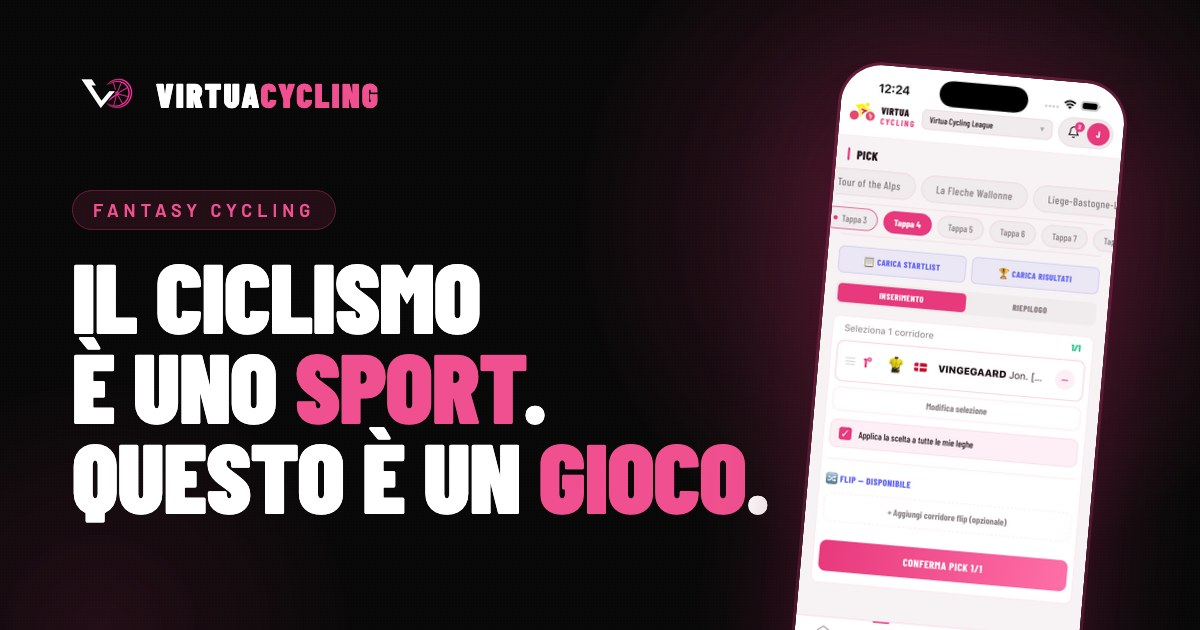
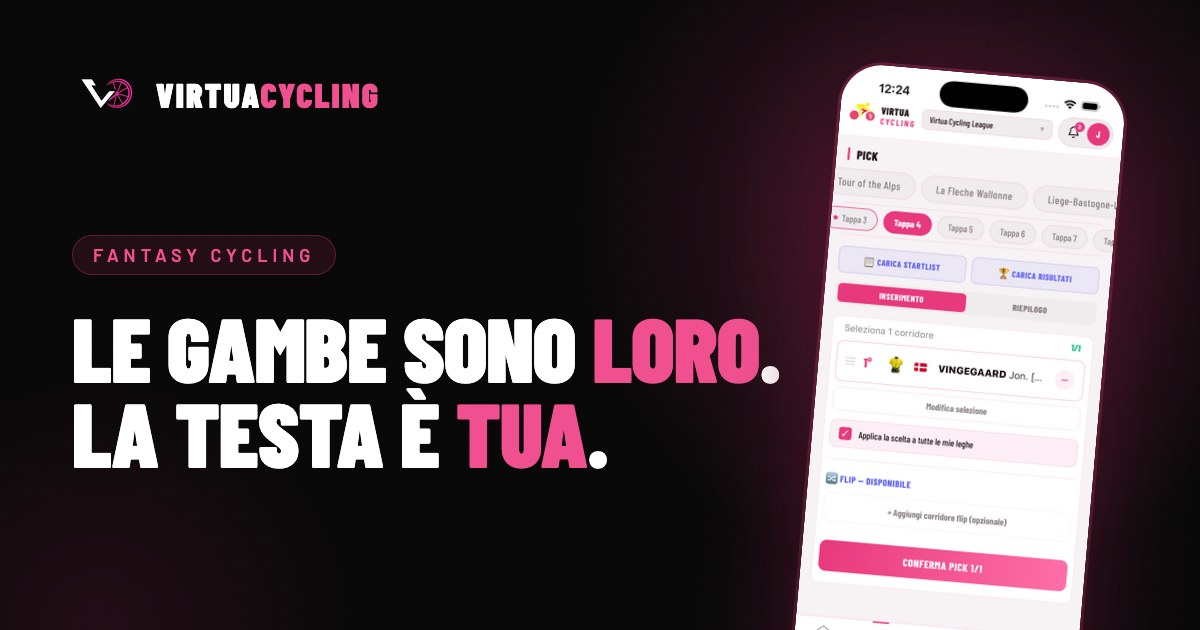
new style2

Changed region(s): [[0.0617, 0.3016, 0.6475, 0.8444]]

diff --git a/index.html b/index.html
@@ -12,7 +12,7 @@
 <meta property="og:site_name" content="Virtua Cycling">
 <meta property="og:locale" content="it_IT">
 <meta property="og:url" content="https://www.virtuacycling.com/">
-<meta property="og:title" content="Virtua Cycling — Il ciclismo è uno sport. Questo è un gioco.">
+<meta property="og:title" content="Virtua Cycling — Le gambe sono loro. La testa è tua.">
 <meta property="og:description" content="Il fantasy cycling per veri appassionati. Scegli i tuoi corridori, sfida gli amici, scala le classifiche.">
 <meta property="og:image" content="https://www.virtuacycling.com/images/og-image.jpg">
 <meta property="og:image:width" content="1200">
@@ -20,7 +20,7 @@
 <meta property="og:image:alt" content="Virtua Cycling — Fantasy Cycling per Grandi Giri e classiche">
 
 <meta name="twitter:card" content="summary_large_image">
-<meta name="twitter:title" content="Virtua Cycling — Il ciclismo è uno sport. Questo è un gioco.">
+<meta name="twitter:title" content="Virtua Cycling — Le gambe sono loro. La testa è tua.">
 <meta name="twitter:description" content="Il fantasy cycling per veri appassionati. Scegli i tuoi corridori, sfida gli amici, scala le classifiche.">
 <meta name="twitter:image" content="https://www.virtuacycling.com/images/og-image.jpg">
 
@@ -351,10 +351,10 @@
   </div>
 
   <h1 class="hero-title">
-    <span data-lang="it">Il ciclismo<br>è uno <span class="hl">sport</span>.<br>Questo è un <span class="hl">gioco</span>.</span>
-    <span data-lang="en">Cycling is<br>a <span class="hl">sport</span>.<br>This is a <span class="hl">game</span>.</span>
-    <span data-lang="fr">Le cyclisme<br>est un <span class="hl">sport</span>.<br>Ceci est un <span class="hl">jeu</span>.</span>
-    <span data-lang="es">El ciclismo<br>es un <span class="hl">deporte</span>.<br>Esto es un <span class="hl">juego</span>.</span>
+    <span data-lang="it">Le gambe sono <span class="hl">loro</span>.<br>La testa è <span class="hl">tua</span>.</span>
+    <span data-lang="en">The legs are <span class="hl">theirs</span>.<br>The strategy is <span class="hl">yours</span>.</span>
+    <span data-lang="fr">Les jambes, c'est <span class="hl">eux</span>.<br>La tactique, c'est <span class="hl">vous</span>.</span>
+    <span data-lang="es">Las piernas son <span class="hl">suyas</span>.<br>La táctica es <span class="hl">tuya</span>.</span>
   </h1>
 
   <p class="hero-subtitle">
